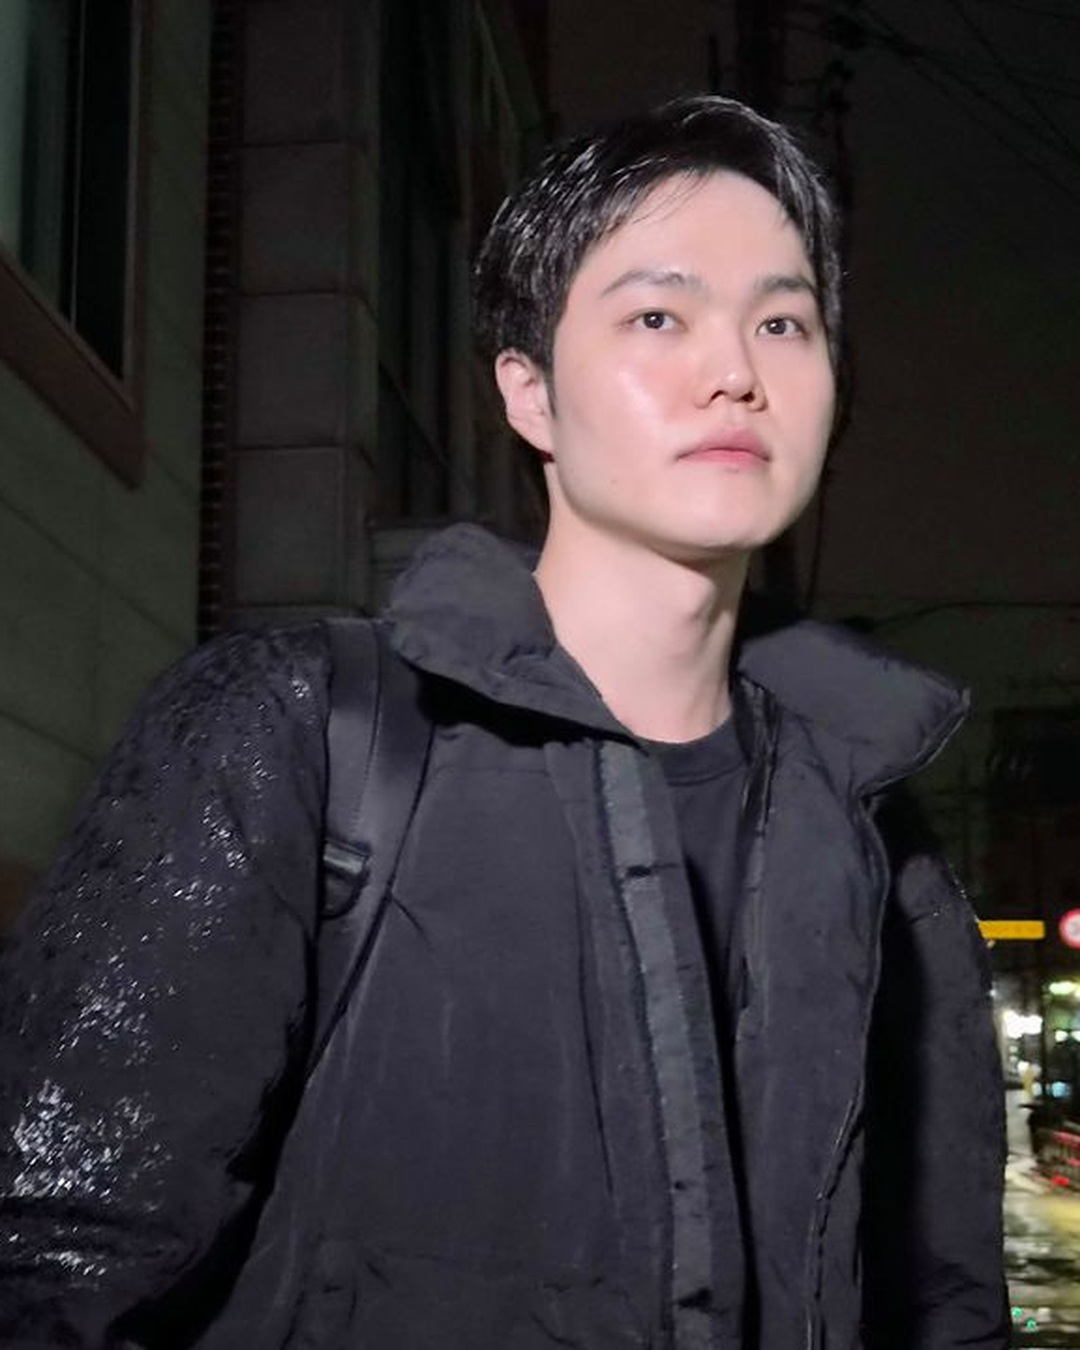
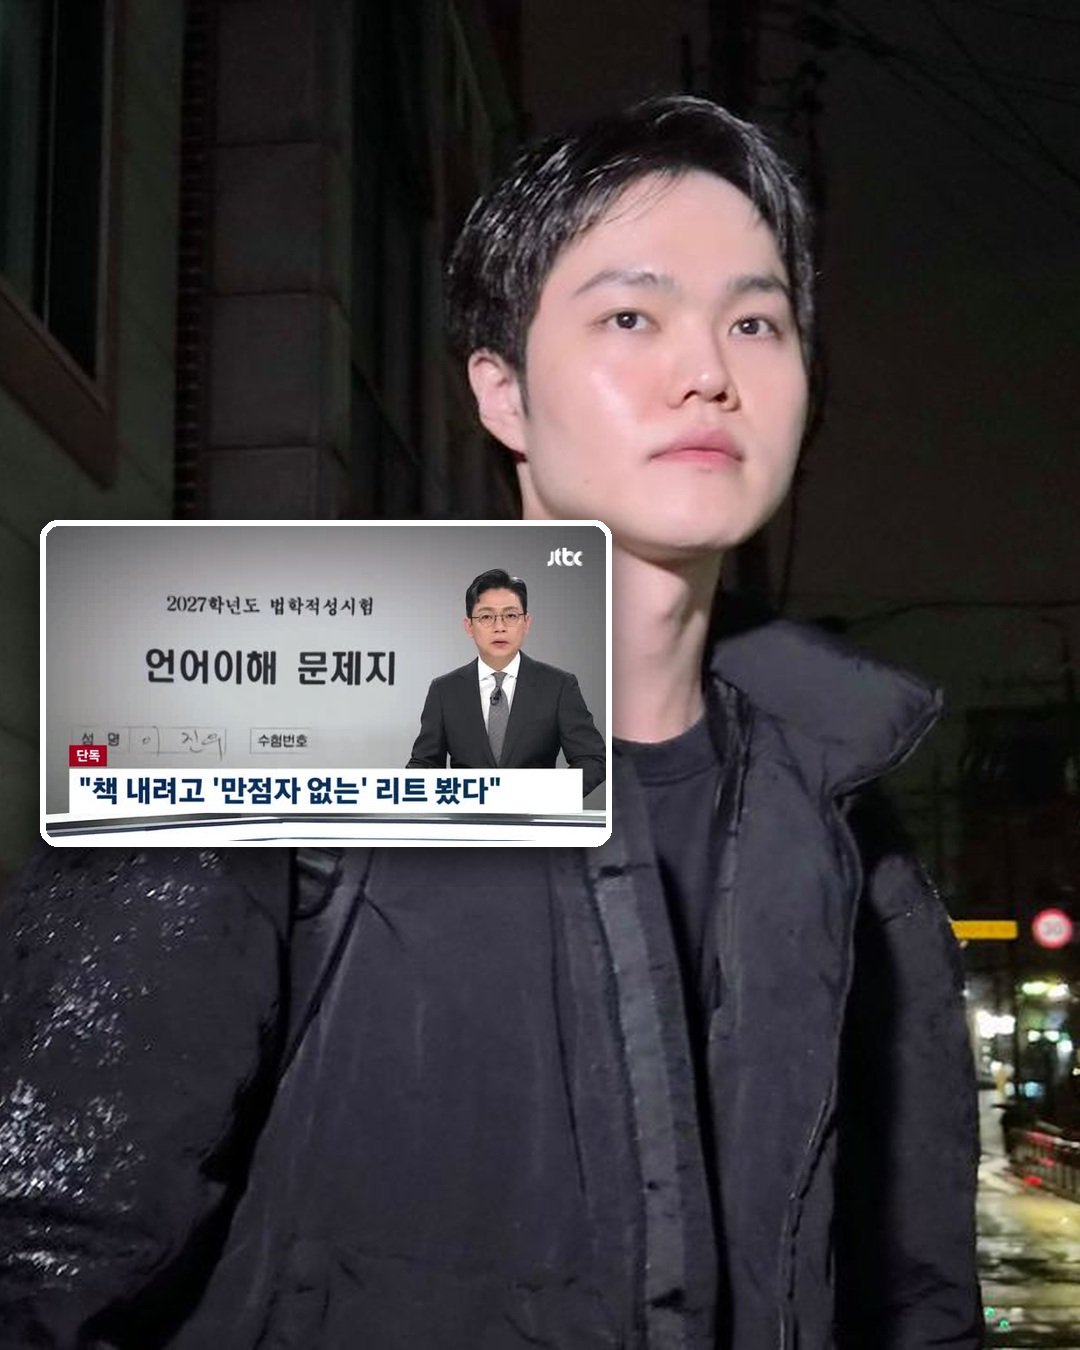
booktalk: 표지 실제 사진 + JTBC 화면 카드
Claude-Session: https://claude.ai/code/session_01FGsw5S4nGrZdCJo7qBU1wE

diff --git a/media/20261127-booktalk/make_cover.py b/media/20261127-booktalk/make_cover.py
@@ -1,21 +1,18 @@
-"""20261127-booktalk 표지 배경: 인물 사진(밝은 배경 지우고 어두운 바탕) (책 카드 없음 — 다른 계정 동그라미 따라 하지 않음)."""
+"""20261127-booktalk 표지 배경: 실제 사진(중앙일보 11.17 자택 앞) + JTBC 보도 화면 카드(앵커 '책 내려고 만점자 없는 리트 봤다')."""
 from pathlib import Path
-import numpy as np
-from PIL import Image, ImageDraw, ImageFilter, ImageEnhance
+from PIL import Image, ImageOps, ImageDraw, ImageFilter
 D = Path(__file__).parent
-p = Image.open(D / "cand/lee_photo.jpg").convert("RGB"); a = np.asarray(p).astype(float)
-bgc = np.median(np.concatenate([a[:40, :].reshape(-1, 3), a[:, :30].reshape(-1, 3), a[:, -30:].reshape(-1, 3)]), 0)
-m = (np.sqrt(((a - bgc) ** 2).sum(2)) > 38).astype(np.uint8) * 255
-mi = Image.fromarray(m).filter(ImageFilter.MedianFilter(7)).filter(ImageFilter.MaxFilter(3)).filter(ImageFilter.GaussianBlur(1.2))
-W, H = 1080, 1350; k = 1.45; pw, ph = int(p.width * k), int(p.height * k)
-ps = p.resize((pw, ph), Image.LANCZOS); ms = mi.resize((pw, ph), Image.LANCZOS)
-cv = Image.new("RGB", (W, H), (14, 14, 16))
-glow = Image.new("L", (W, H), 0); ImageDraw.Draw(glow).ellipse((-200, -150, 900, 800), fill=90); glow = glow.filter(ImageFilter.GaussianBlur(160))
-cv = Image.composite(Image.new("RGB", (W, H), (58, 60, 66)), cv, glow)
-cv.paste(ps, ((W - pw) // 2, -40), ms)
-g = Image.new("L", (W, H), 0); d = ImageDraw.Draw(g)
-for y in range(780, 1050): d.line((0, y, W, y), fill=int(255 * (y - 780) / 270))
-for y in range(1050, H): d.line((0, y, W, y), fill=255)
-cv = Image.composite(Image.new("RGB", (W, H), (12, 12, 14)), cv, g).convert("RGBA")
-cv.convert("RGB").save(D / "cand/cover_bg.jpg", quality=94)
+W, H = 1080, 1350
+bg = ImageOps.fit(Image.open(D / "video/img1.jpg").convert("RGB").crop((420, 0, 1100, 720)), (W, H), Image.LANCZOS, centering=(.62, .5)).convert("RGBA")
+fr = Image.open(D / "cand/fr/raw141.jpg").convert("RGB")  # JTBC 앵커 화면(자막 포함)
+cw = 560; cap = fr.resize((cw, round(fr.height * cw / fr.width)), Image.LANCZOS)
+pad = 6; card = Image.new("RGBA", (cw + 2 * pad, cap.height + 2 * pad), (0, 0, 0, 0))
+ImageDraw.Draw(card).rounded_rectangle((0, 0, card.width - 1, card.height - 1), 18, fill=(255, 255, 255, 255))
+m = Image.new("L", cap.size, 0); ImageDraw.Draw(m).rounded_rectangle((0, 0, cap.width - 1, cap.height - 1), 13, fill=255)
+card.paste(cap, (pad, pad), m)
+x, y = 40, 520
+sh = Image.new("RGBA", (card.width + 80, card.height + 80), (0, 0, 0, 0))
+ImageDraw.Draw(sh).rounded_rectangle((40, 52, card.width + 40, card.height + 52), 18, fill=(0, 0, 0, 180)); sh = sh.filter(ImageFilter.GaussianBlur(18))
+bg.alpha_composite(sh, (x - 40, y - 40)); bg.alpha_composite(card, (x, y))
+bg.convert("RGB").save(D / "cand/cover_bg.jpg", quality=94)
 print("ok")
